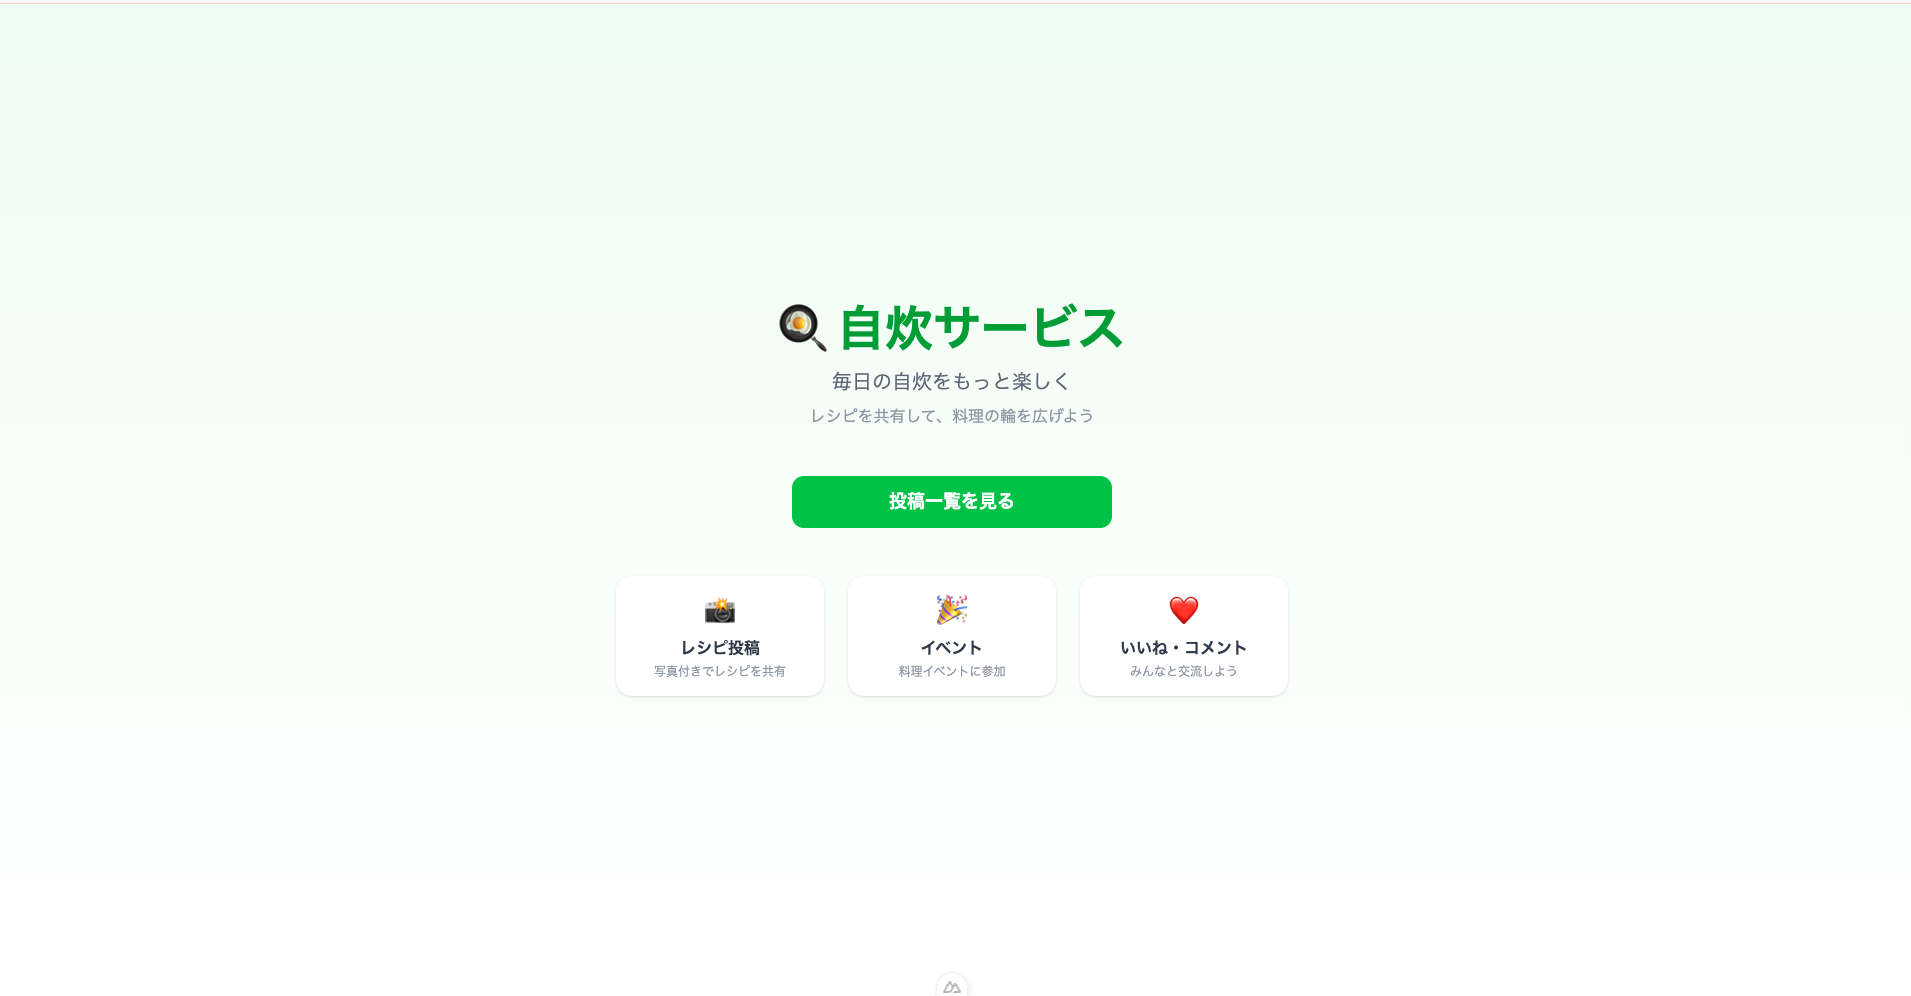
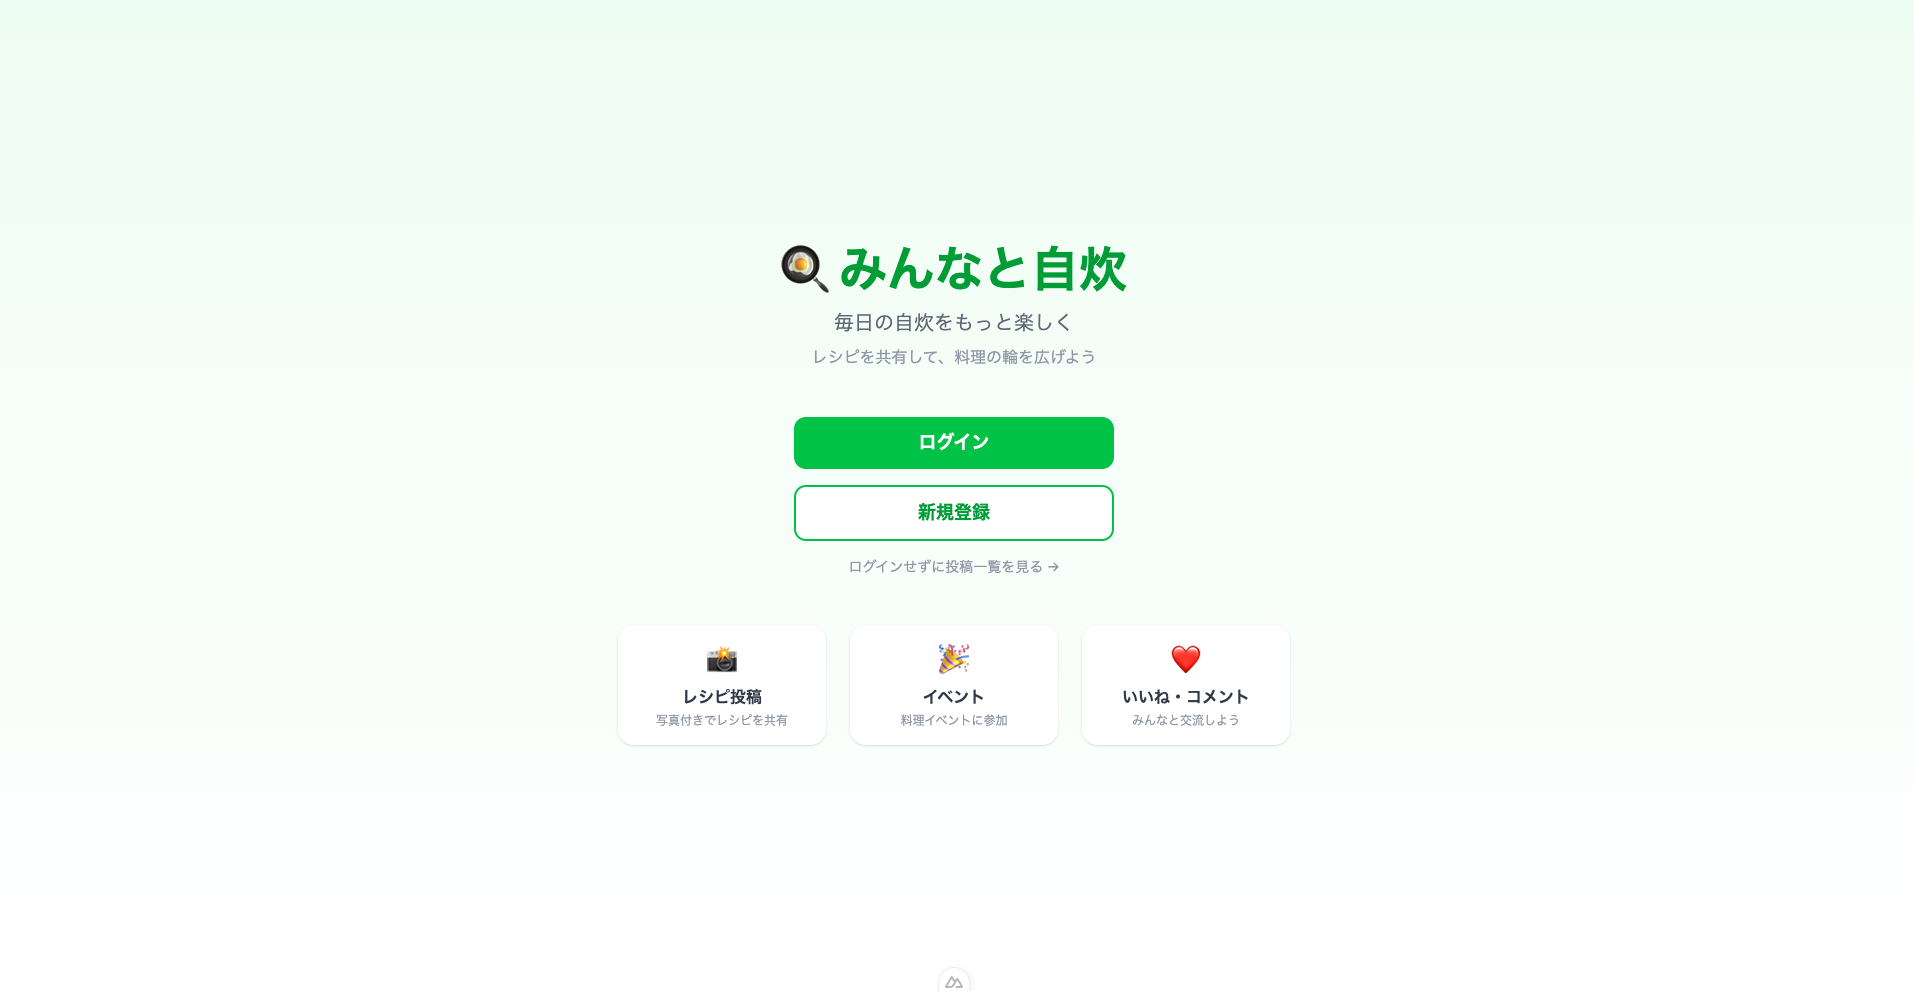
fix:自炊サービスからみんなと自炊にサービス名変更

Changed region(s): [[0.4014, 0.2422, 0.5866, 0.7568], [0.5866, 0.6054, 0.6484, 0.7568], [0.3396, 0.6054, 0.4014, 0.7568]]

diff --git a/frontend/app/app.vue b/frontend/app/app.vue
@@ -3,13 +3,13 @@ const route = useRoute();
 const isTopPage = computed(() => route.path === '/');
 
 useHead({
-  title: '自炊サービス',
+  title: 'みんなと自炊',
   meta: [
     {
       name: 'description',
       content: '毎日の自炊をもっと楽しく。レシピを共有して料理の輪を広げよう。',
     },
-    { property: 'og:title', content: '自炊サービス' },
+    { property: 'og:title', content: 'みんなと自炊' },
     {
       property: 'og:description',
       content: '毎日の自炊をもっと楽しく。レシピを共有して料理の輪を広げよう。',
@@ -21,7 +21,7 @@ useHead({
       content: 'https://jisui-service-15eo.vercel.app/ogp.png',
     },
     { name: 'twitter:card', content: 'summary_large_image' },
-    { name: 'twitter:title', content: '自炊サービス' },
+    { name: 'twitter:title', content: 'みんなと自炊' },
     {
       name: 'twitter:description',
       content: '毎日の自炊をもっと楽しく。レシピを共有して料理の輪を広げよう。',

diff --git a/frontend/app/components/AppFooter.vue b/frontend/app/components/AppFooter.vue
@@ -5,7 +5,7 @@
     <div class="max-w-4xl mx-auto px-4 py-4">
       <div class="flex items-center justify-center">
         <p class="text-sm text-gray-400">
-          © 2026 自炊サービス. All rights reserved.
+          © 2026 みんなと自炊. All rights reserved.
         </p>
       </div>
     </div>

diff --git a/frontend/app/components/AppHeader.vue b/frontend/app/components/AppHeader.vue
@@ -48,7 +48,7 @@ const isEventPage = computed(() => route.path.startsWith('/events'));
     <div class="max-w-4xl mx-auto px-4 py-4 flex items-center justify-between">
       <div class="flex items-center gap-4">
         <NuxtLink to="/" class="text-xl font-bold text-green-600"
-          >🍳 自炊サービス</NuxtLink
+          >🍳 みんなと自炊</NuxtLink
         >
         <NuxtLink
           to="/posts"

diff --git a/frontend/app/pages/index.vue b/frontend/app/pages/index.vue
@@ -10,7 +10,7 @@ const { isLoggedIn } = useAuth();
     <div class="flex-1 flex flex-col items-center justify-center px-4 py-16">
       <!-- ロゴ -->
       <div class="text-center mb-12">
-        <h1 class="text-5xl font-bold text-green-600 mb-4">🍳 自炊サービス</h1>
+        <h1 class="text-5xl font-bold text-green-600 mb-4">🍳 みんなと自炊</h1>
         <p class="text-xl text-gray-500 mb-2">毎日の自炊をもっと楽しく</p>
         <p class="text-gray-400">レシピを共有して、料理の輪を広げよう</p>
       </div>

diff --git a/backend/app/Notifications/ResetPasswordNotification.php b/backend/app/Notifications/ResetPasswordNotification.php
@@ -22,12 +22,12 @@ class ResetPasswordNotification extends Notification
     public function toMail(object $notifiable): MailMessage
     {
         return (new MailMessage)
-            ->subject('【自炊サービス】パスワードリセット')
+            ->subject('【みんなと自炊】パスワードリセット')
             ->greeting('こんにちは！')
             ->line('パスワードリセットのリクエストを受け付けました。')
             ->action('パスワードをリセットする', $this->url)
             ->line('このリンクは60分間有効です。')
             ->line('心当たりがない場合は、このメールを無視してください。')
-            ->salutation('自炊サービス');
+            ->salutation('みんなと自炊');
     }
 }